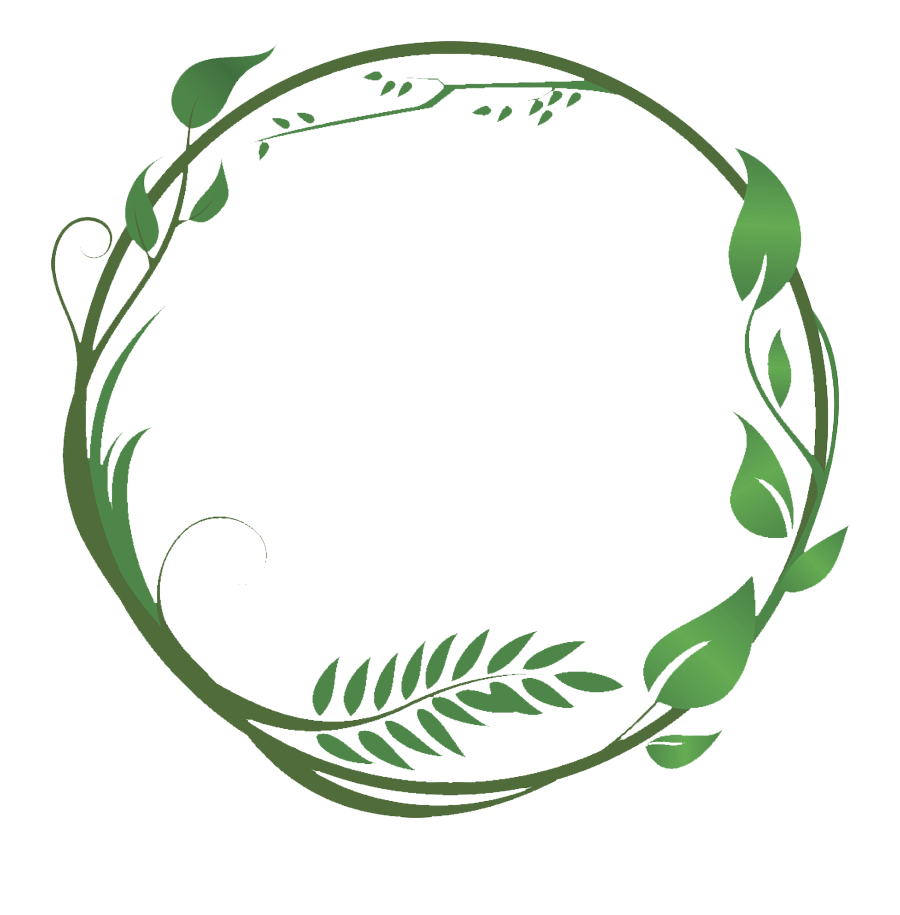
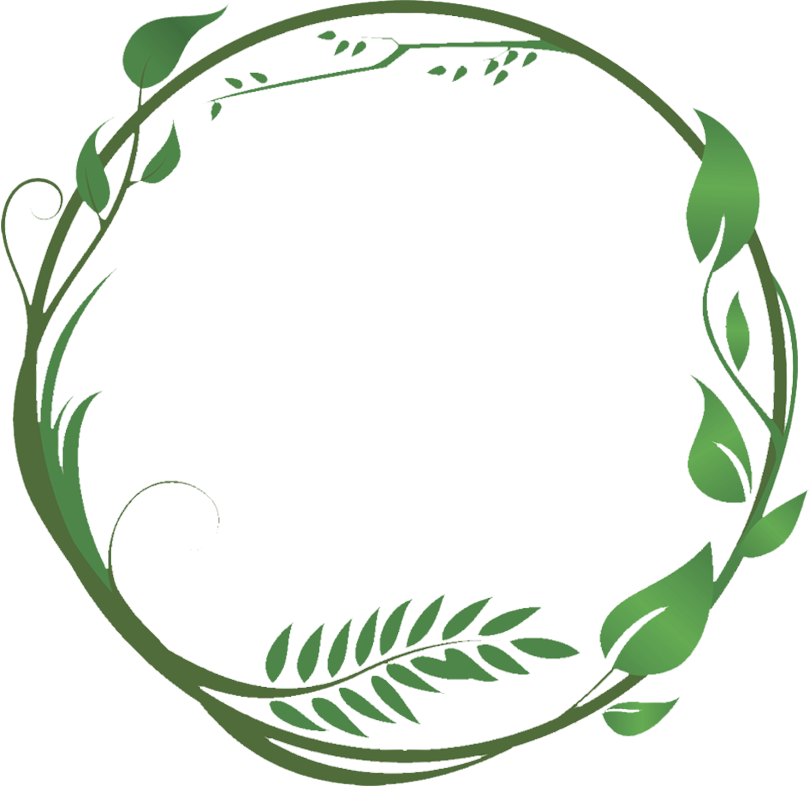
Commit 23-June-2020

Changed region(s): [[0.0, 0.0, 1.0, 1.0], [0.216, 0.5475, 0.2469, 0.5779]]

diff --git a/index.html b/index.html
@@ -23,16 +23,18 @@
 </head>
 
 <body>
-  <section class="topSection" id="title">
-    <div class="heading-container container-fluid pr-0 pl-0">
+  <section class="navbarSection col">
+    <div class="navContainer container-fluid row pr-0 pl-0">
+      <div class="topLogo col-5 pr-0">
+        <img class="logoLarge image-fluid col-xl-4 col-lg-6 pt-3 pb-1" src="images/VeganRican_logo_wide.png" alt="Vegan-Rican">
+      </div>
       <!-- Nav Bar -->
-      <nav class="navbar navbar-expand-lg navbar-light col">
-        <img class="logoLarge col-lg-2 col-md-3 col-sm-3" src="images/VeganRican_logo_lg.png" alt="Vegan-Rican">
+      <nav class="navbar navbar-expand-lg navbar-light col-7">
         <button class="navbar-toggler" type="button" data-toggle="collapse" data-target="#navbarTogglerDemo02" aria-controls="navbarTogglerDemo02" aria-expanded="false" aria-label="Toggle navigation">
           <span class="navbar-toggler-icon navbar-light"></span>
         </button>
-        <div class="collapse navbar-collapse navbar-light navItems col-lg-6 mt-5" id="navbarTogglerDemo02">
-          <ul class="navbar-nav ml-auto">
+        <div class="collapse navbar-collapse navbar-light navItems pl-0 col-12" id="navbarTogglerDemo02">
+          <ul class="navbar-nav">
             <li class="nav-item">
               <a class="nav-link" href="#about">About Me</a>
             </li>
@@ -40,16 +42,22 @@
             <li class="nav-item">
               <a class="nav-link" href="#contact">Contact</a>
             </li>
-            <!-- <li class="nav-item">
-                <a class="nav-link" href="#cta">Download</a>
-              </li> -->
           </ul>
         </div>
       </nav>
-      <img class="topBackground img-fluid ml-0 mr-auto pl-0 w-50" src="images/Pineapples_bck_1.png" alt="Pineapples-img">
     </div>
   </section>
-  <section id="about" class="midSection" id="title">
+  <section class="topSection">
+    <div class="heading-container container-fluid row pr-0 pl-0">
+      <div class="veganQuote img-fluid col-xl-6 col-lg-6 order-last">
+        <img class="vinesImg col-xl-9 col-lg-7 mx-auto" src="images/Vines_Circle_Quote.png" alt="Vines-Img">
+      </div>
+      <div class="pineappleDiv image-fluid col-xl-6 col-lg-6 d-none d-md-block mr-0">
+        <img class="topBackground img-fluid col-12 ml-0 mr-auto pl-0" src="images/Pineapples_bck_1.png" alt="Pineapples-img">
+      </div>
+    </div>
+  </section>
+  <section id="about" class="midSection">
     <div class="midContainer container-fluid">
       <img class="logoSmall" src="images/VeganRican_logo_sm.png" alt="Vegan-Rican-sm">
     </div>
@@ -78,6 +86,12 @@
             <li data-target="#carouselExampleIndicators" data-slide-to="0" class="active"></li>
             <li data-target="#carouselExampleIndicators" data-slide-to="1"></li>
             <li data-target="#carouselExampleIndicators" data-slide-to="2"></li>
+            <li data-target="#carouselExampleIndicators" data-slide-to="3"></li>
+            <li data-target="#carouselExampleIndicators" data-slide-to="4"></li>
+            <li data-target="#carouselExampleIndicators" data-slide-to="5"></li>
+            <li data-target="#carouselExampleIndicators" data-slide-to="6"></li>
+            <li data-target="#carouselExampleIndicators" data-slide-to="7"></li>
+            <li data-target="#carouselExampleIndicators" data-slide-to="8"></li>
           </ol>
           <div class="carousel-inner">
             <div class="carousel-item active">
@@ -87,7 +101,22 @@
               <img class="d-block w-100" src="images/Food_Image_4.jpg" alt="Second slide">
             </div>
             <div class="carousel-item">
-              <img class="d-block w-100" src="images/Food_img_5.jpg" alt="Third slide">
+              <img class="d-block w-100" src="images/Food_Image_3.jpg" alt="Third slide">
+            </div>
+            <div class="carousel-item">
+              <img class="d-block w-100" src="images/Food_Image_6.jpg" alt="Third slide">
+            </div>
+            <div class="carousel-item">
+              <img class="d-block w-100" src="images/Food_Image_7.jpg" alt="Third slide">
+            </div>
+            <div class="carousel-item">
+              <img class="d-block w-100" src="images/Food_Image_8.jpg" alt="Third slide">
+            </div>
+            <div class="carousel-item">
+              <img class="d-block w-100" src="images/Food_Image_9.jpg" alt="Third slide">
+            </div>
+            <div class="carousel-item">
+              <img class="d-block w-100" src="images/Food_Image_10.jpg" alt="Third slide">
             </div>
           </div>
           <a class="carousel-control-prev" href="#carouselExampleIndicators" role="button" data-slide="prev">

diff --git a/CSS/styles.css b/CSS/styles.css
@@ -3,18 +3,18 @@
 /* font-family: 'Montserrat', sans-serif;
 font-family: 'Poppins', sans-serif; */
 
-/* Top Section */
-
-.topSection {
-  background-color: #edefec;
-  padding: 2rem 3rem 0;
-}
-
-.logoLarge {
-  max-width: 13rem;
-}
-
 /* Nav bar */
+
+body {
+  background-color: #edefec;
+}
+
+.navbarSection {
+  background-color: #edefec;
+  position: fixed;
+  z-index: 1000;
+}
+
 .navbar {
   z-index: 1;
 }
@@ -38,11 +38,6 @@ font-family: 'Poppins', sans-serif; */
   color: #596f62;
 }
 
-.navItems {
-  position: relative;
-  bottom: 5.75rem;
-}
-
 .nav-link {
   color: #34552b;
 }
@@ -55,21 +50,40 @@ font-family: 'Poppins', sans-serif; */
   border-color: #34552b;
 }
 
-.topBackground {
-  max-width: 740px;
+/* Top Section */
+
+.topSection {
+  padding: 6.5rem 0 0;
   position: relative;
-  right: 3rem;
-  z-index: 1;
 }
 
+.heading-container {
+  display: inline-flex;
+}
+
+.topBackground {
+  display: inline-flex;
+}
+
+.veganQuote {
+  padding: 2rem;
+  display: inline-flex;
+  z-index: 3;
+  bottom: 2rem;
+}
+
+.vinesImg {
+  min-width: 350px;
+  display: inline-flex;
+}
 
 /* About Me Section */
 
 .midSection {
   background-color: #596F62;
-  padding: 4rem 1rem 4rem 1rem;
+  padding: 4.5rem 1rem 4rem 1rem;
   position: relative;
-  z-index: 2;
+  bottom: 5rem;
 }
 
 .logoSmall {
@@ -128,7 +142,13 @@ font-family: 'Poppins', sans-serif; */
 .carousel-control-next-icon {
   width: 2.5rem;
   height: 2.5rem;
-  box-shadow: -0.2rem 0.2rem 0.2rem 0.1rem #0000007a;
+  box-shadow: -0.2rem 0.2rem 0.2rem 0.1rem #0000001c;
+}
+
+.carousel-indicators li {
+  width: 0.75rem;
+  height: 0.75rem;
+  border-radius: 100%;
 }
 
 
